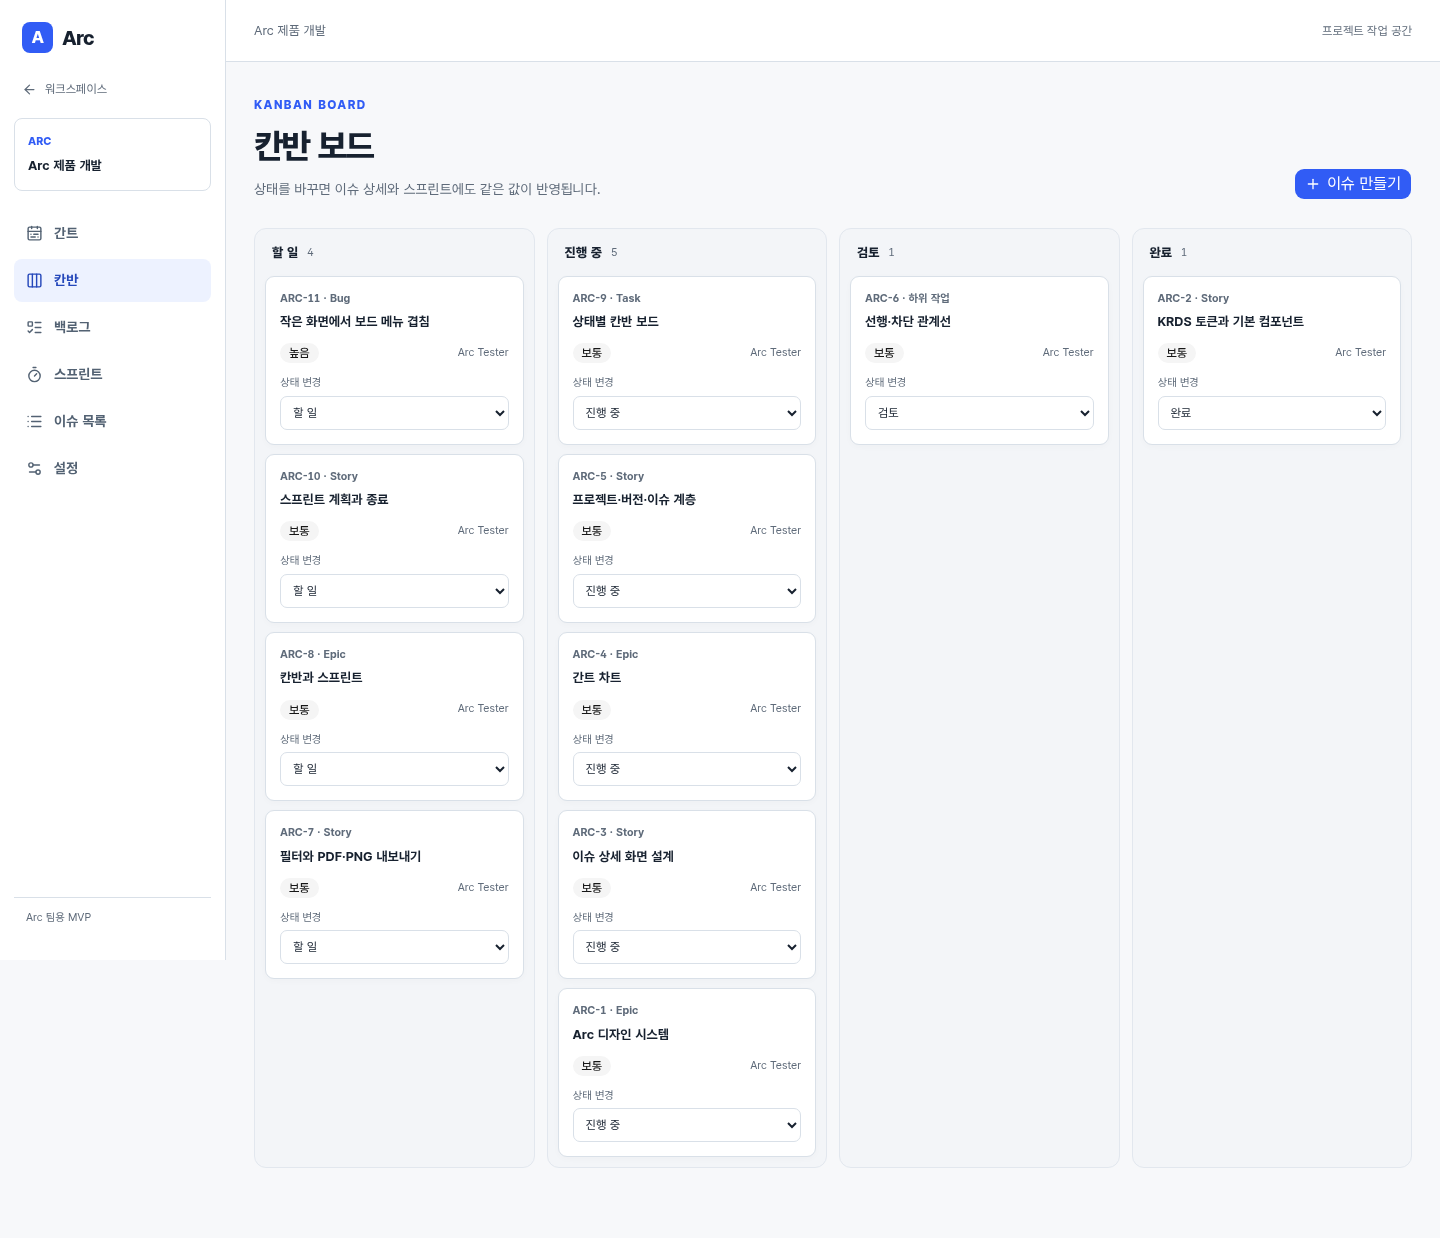
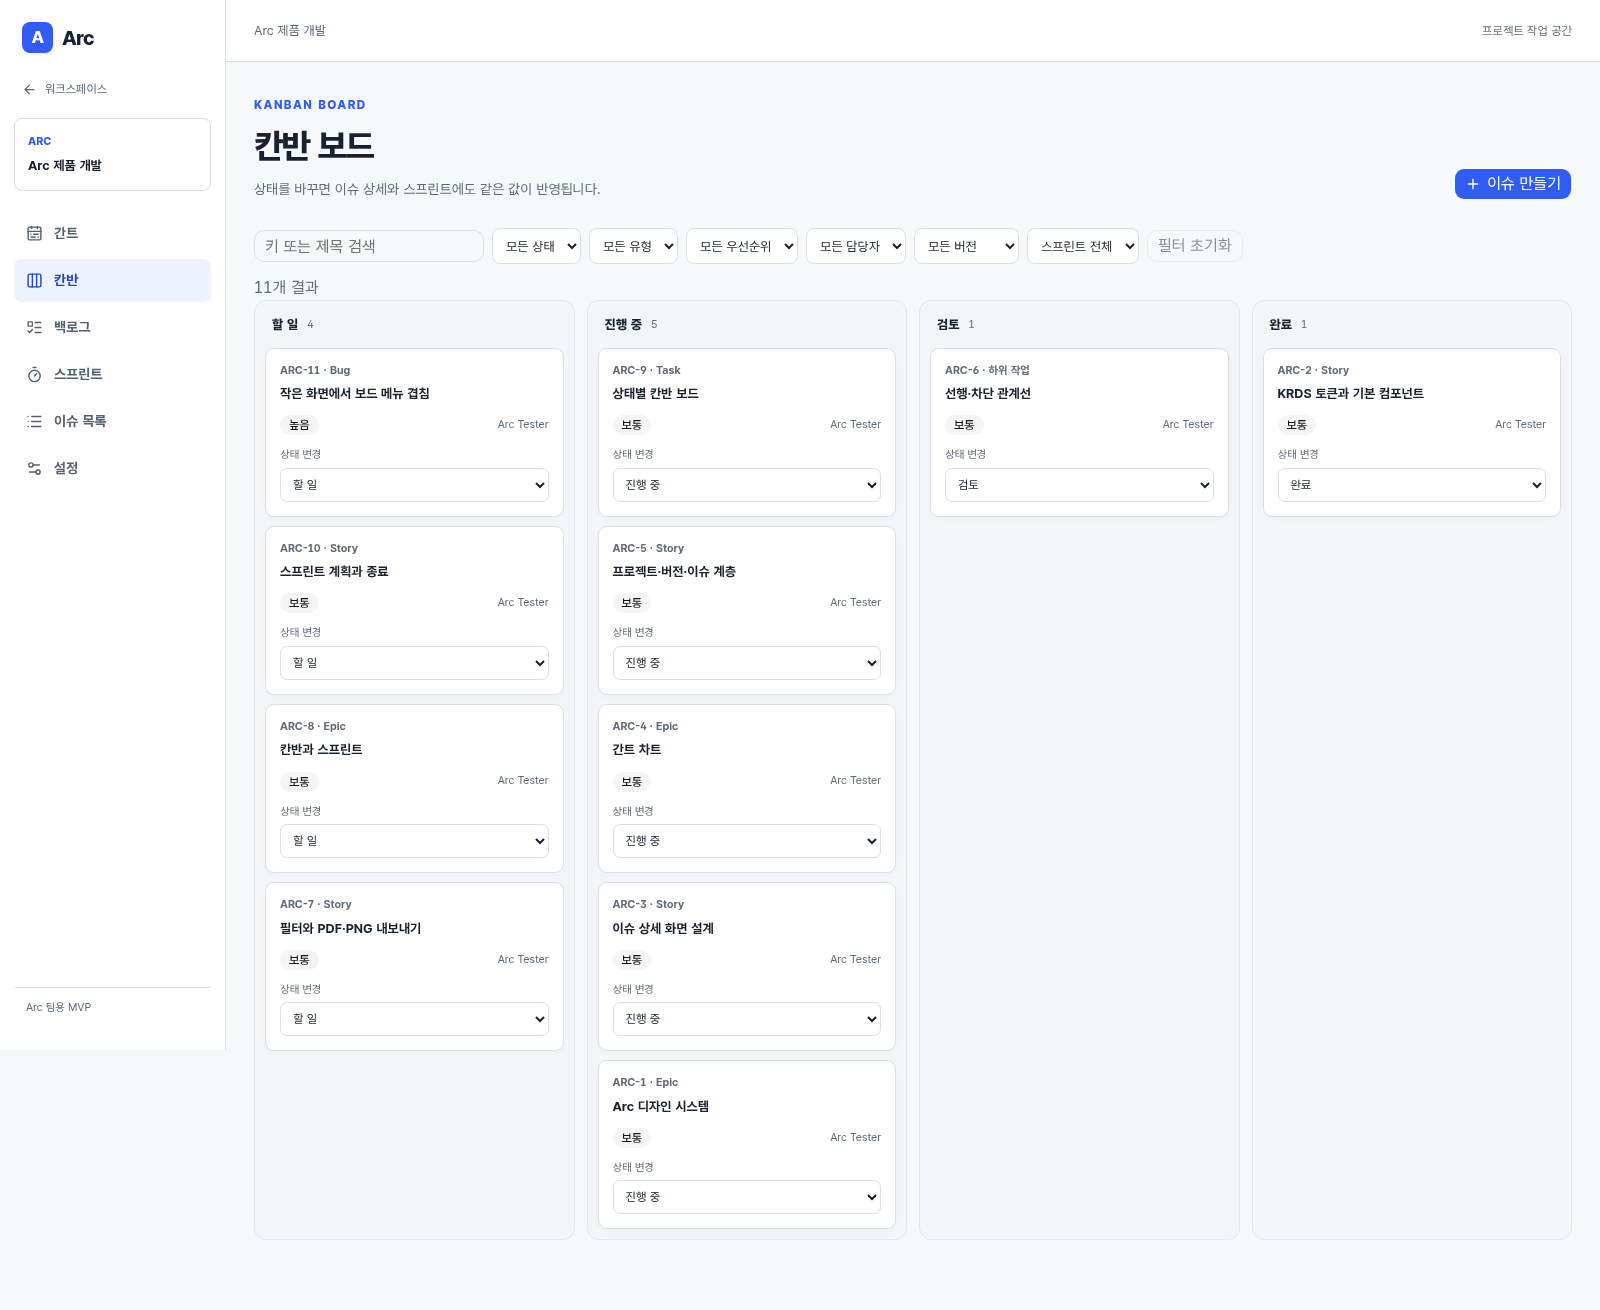
Refresh product screenshots and document reproducible MVP setup

diff --git a/docs/TODO.md b/docs/TODO.md
@@ -31,6 +31,7 @@
 - [x] `index.html`은 Vite 서버에서 실행됨을 확인하고 직접 파일을 열 때 안내를 제공했다.
 - [x] 서버 없이 열 수 있는 [디자인 HTML 시안](../frontend/public/design-preview.html)을 작성했다.
 - [x] 간트·보드·백로그·상세의 이슈 변경 캐시를 함께 갱신한다.
+- [x] pnpm 전환과 프런트 구조화 후 실제 제품의 간트·칸반 스크린샷과 README 실행·사용·검증 안내를 갱신했다.
 - [x] 실제 브라우저에서 가입·초대·이슈·필터·간트 출력·충돌·스프린트·멤버 권한·모바일 키보드의 수용 흐름을 검증했다.
 
 검증이 끝난 작업 단위마다 커밋하고, 완료 항목과 남은 항목을 이 문서와 STATUS에 반영한다.
